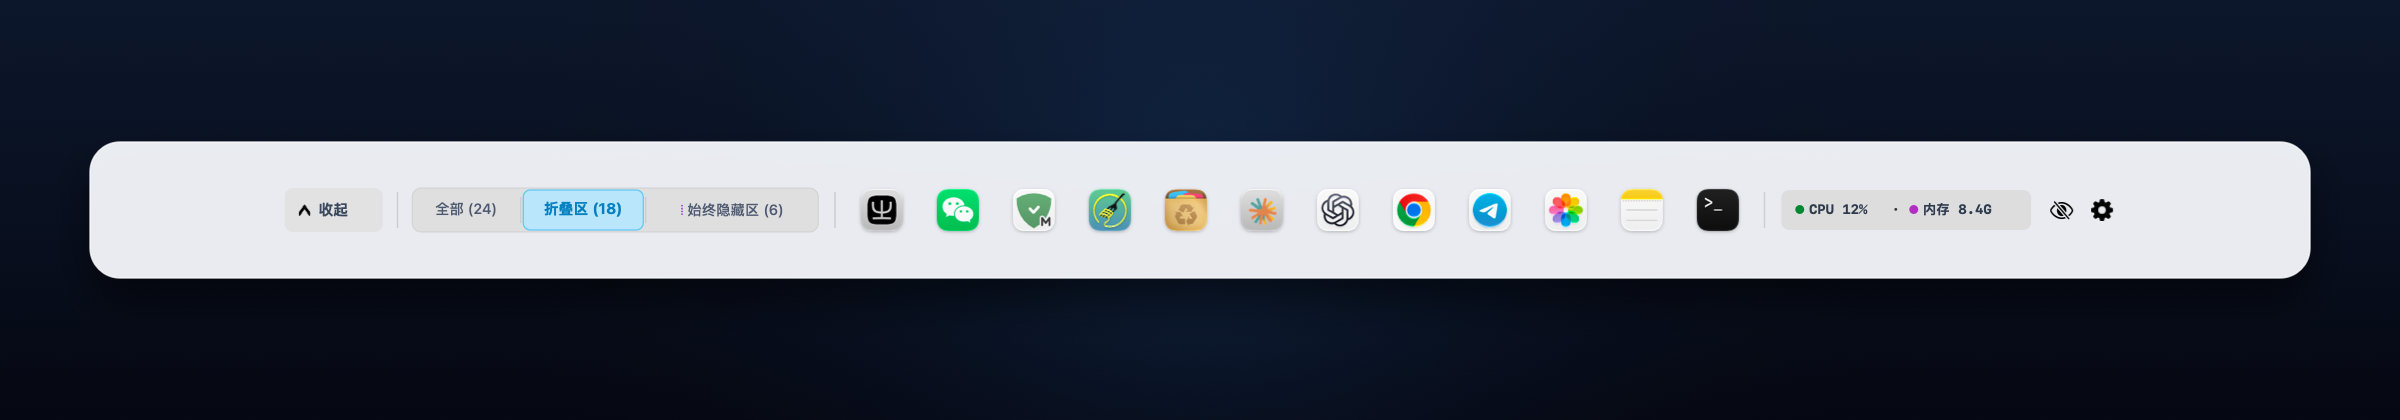
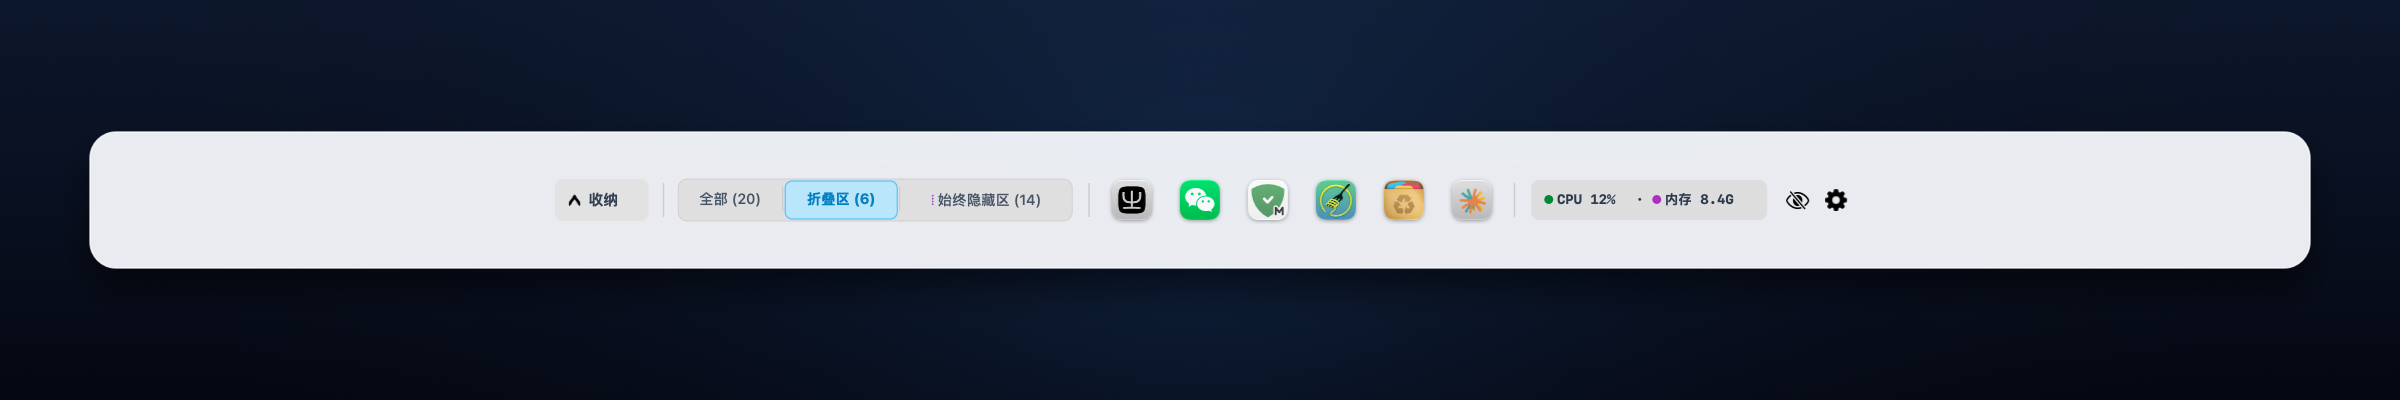
fix(barnest): move text explanations inside drawer comparison frame and sync authentic UI numbers (20/6/14) & button text (^ 收纳)

Changed region(s): [[0.125, 0.45, 0.9062, 0.57], [0.0312, 0.66, 0.9688, 0.69], [0.0312, 0.33, 0.9688, 0.36]]

diff --git a/barnest/support.html b/barnest/support.html
@@ -72,7 +72,7 @@
             <h3>Hover cursor or press hotkey to unfold</h3>
             <p>BarNest lives directly in your menu bar. Simply hover your cursor over the nest divider arrow (<code>&lt;</code> or <code>&gt;</code>) to smoothly reveal hidden icons with fluid spring physics. Moving the cursor away collapses the drawer automatically. You can also press the global hotkey <kbd>⌥</kbd> <kbd>⌘</kbd> <kbd>B</kbd> at any time.</p>
             <figure class="guide-figure">
-              <img src="images/guide-drawer-3tier.png?v=2" alt="BarNest Hover Drawer Unfolded" loading="lazy">
+              <img src="images/guide-drawer-3tier.png?v=3" alt="BarNest Hover Drawer Unfolded" loading="lazy">
               <figcaption>Floating drawer unfolded: Integrated with All, Folded, and Always-Hidden segmented controller</figcaption>
             </figure>
           </article>
@@ -87,8 +87,8 @@
               <li><strong>Always Hidden (始终隐藏区)</strong>: Opens the isolated shelf for background daemons and low-frequency utilities, also accessible via <kbd>⌥</kbd> <kbd>⇧</kbd> <kbd>⌘</kbd> <kbd>B</kbd>.</li>
             </ul>
             <figure class="guide-figure">
-              <img src="images/guide-shelf-tiers-light.png?v=2" alt="BarNest 3-Tier Shelf Switching Comparison" loading="lazy">
-              <figcaption>Real shelf tier switching: Tap All (24), Folded (18), or Always Hidden (6) to filter items dynamically</figcaption>
+              <img src="images/guide-shelf-tiers-light.png?v=3" alt="BarNest 3-Tier Shelf Switching Comparison" loading="lazy">
+              <figcaption>Real shelf tier switching: Tap All (20), Folded (6), or Always Hidden (14) to filter items dynamically</figcaption>
             </figure>
             <figure class="guide-figure" style="margin-top: 16px;">
               <img src="images/guide-preferences.png" alt="BarNest Preferences Icon Hierarchy" loading="lazy">
@@ -162,7 +162,7 @@
             <h3>鼠标轻触或快捷键即刻展开</h3>
             <p>BarNest 常驻在您的顶部状态栏中。将鼠标移动悬停在折叠箭头（<code>&lt;</code> 或 <code>&gt;</code>）上，隐藏图标立即随物理动效滑出；鼠标移开后自动隐匿。您也可以随时按下全局快捷键 <kbd>⌥</kbd> <kbd>⌘</kbd> <kbd>B</kbd> 极速呼出。</p>
             <figure class="guide-figure">
-              <img src="images/guide-drawer-3tier-zh.png?v=2" alt="BarNest 悬停展开抽屉托盘示意图" loading="lazy">
+              <img src="images/guide-drawer-3tier-zh.png?v=3" alt="BarNest 悬停展开抽屉托盘示意图" loading="lazy">
               <figcaption>原生悬浮抽屉展开态：完整集成「全部」、「折叠区」与「始终隐藏区」分段控制器</figcaption>
             </figure>
           </article>
@@ -177,8 +177,8 @@
               <li><strong>「始终隐藏区」</strong>：直达深度隐藏的高级或后台静默工具，支持快捷键 <kbd>⌥</kbd> <kbd>⇧</kbd> <kbd>⌘</kbd> <kbd>B</kbd> 直接唤起。</li>
             </ul>
             <figure class="guide-figure">
-              <img src="images/guide-shelf-tiers-light-zh.png?v=2" alt="BarNest 三阶分段切换实时效果演示" loading="lazy">
-              <figcaption>真实抽屉三段切换对比：点选「全部 (24)」、「折叠区 (18)」或「始终隐藏区 (6)」实时过滤对应应用</figcaption>
+              <img src="images/guide-shelf-tiers-light-zh.png?v=3" alt="BarNest 三阶分段切换实时效果演示" loading="lazy">
+              <figcaption>真实抽屉三段切换对比：点选「全部 (20)」、「折叠区 (6)」或「始终隐藏区 (14)」实时过滤对应应用</figcaption>
             </figure>
             <figure class="guide-figure" style="margin-top: 16px;">
               <img src="images/guide-preferences-zh.png" alt="BarNest 偏好设置分级管理示意图" loading="lazy">
@@ -249,7 +249,7 @@
             <h3>マウスホバーまたはショートカットで即時展開</h3>
             <p>メニューバーの折りたたみ矢印（<code>&lt;</code> または <code>&gt;</code>）にカーソルを合わせるだけで、隠れたアイコンが滑らかに展開します。離れると自動収納。グローバルショートカット <kbd>⌥</kbd> <kbd>⌘</kbd> <kbd>B</kbd> でも瞬時に呼び出せます。</p>
             <figure class="guide-figure">
-              <img src="images/guide-drawer-3tier.png?v=2" alt="BarNest ドロワー展開" loading="lazy">
+              <img src="images/guide-drawer-3tier.png?v=3" alt="BarNest ドロワー展開" loading="lazy">
               <figcaption>展開されたフローティングドロワー：「すべて」「格納」「完全非表示」の3層切り替えに対応</figcaption>
             </figure>
           </article>
@@ -259,7 +259,7 @@
             <h3>「すべて」「折りたたみ」「完全非表示」を瞬時に切り替え</h3>
             <p>ドロワー内でセグメントを切り替えて目的のアプリに素早くアクセス。環境設定で自由に各アプリの階層をカスタマイズできます。</p>
             <figure class="guide-figure">
-              <img src="images/guide-shelf-tiers-light.png?v=2" alt="BarNest 3階層切り替え" loading="lazy">
+              <img src="images/guide-shelf-tiers-light.png?v=3" alt="BarNest 3階層切り替え" loading="lazy">
               <figcaption>ドロワー内の3階層切り替え比較</figcaption>
             </figure>
           </article>
@@ -299,7 +299,7 @@
             <h3>마우스 호버 또는 단축키로 즉각 펼침</h3>
             <p>메뉴 막대의 접기 아이콘(<code>&lt;</code> 또는 <code>&gt;</code>)에 마우스를 올리면 숨겨진 아이콘 서랍이 부드럽게 나타납니다. 언제든 글로벌 단축키 <kbd>⌥</kbd> <kbd>⌘</kbd> <kbd>B</kbd>로 빠르게 열고 닫을 수 있습니다.</p>
             <figure class="guide-figure">
-              <img src="images/guide-drawer-3tier.png?v=2" alt="BarNest 서랍 펼침" loading="lazy">
+              <img src="images/guide-drawer-3tier.png?v=3" alt="BarNest 서랍 펼침" loading="lazy">
               <figcaption>플로팅 서랍 펼침: 전체(All), 접힘(Folded), 완전 숨김(Always Hidden) 3단계 탭 탑재</figcaption>
             </figure>
           </article>
@@ -309,7 +309,7 @@
             <h3>전체, 접기, 완전 숨김 영역 즉시 전환</h3>
             <p>서랍 내에서 탭을 눌러 원하는 영역의 아이콘을 자유롭게 필터링하여 확인하세요.</p>
             <figure class="guide-figure">
-              <img src="images/guide-shelf-tiers-light.png?v=2" alt="BarNest 3단계 전환 비교" loading="lazy">
+              <img src="images/guide-shelf-tiers-light.png?v=3" alt="BarNest 3단계 전환 비교" loading="lazy">
               <figcaption>서랍 내 3단계 계층 실시간 전환 비교</figcaption>
             </figure>
           </article>
@@ -349,7 +349,7 @@
             <h3>Hover oder Tastenkürzel für sofortiges Ausklappen</h3>
             <p>Fahren Sie mit der Maus über das Pfeilsymbol (<code>&lt;</code> oder <code>&gt;</code>) in der Menüleiste oder drücken Sie <kbd>⌥</kbd> <kbd>⌘</kbd> <kbd>B</kbd>, um versteckte Symbole sanft auszuklappen.</p>
             <figure class="guide-figure">
-              <img src="images/guide-drawer-3tier.png?v=2" alt="BarNest Drawer" loading="lazy">
+              <img src="images/guide-drawer-3tier.png?v=3" alt="BarNest Drawer" loading="lazy">
               <figcaption>Schwebender Drawer mit 3-Stufen-Tabs: Alle, Ausgeblendet &amp; Dauerhaft versteckt</figcaption>
             </figure>
           </article>
@@ -358,7 +358,7 @@
             <h3>Einfaches Umschalten direkt im Drawer</h3>
             <p>Wechseln Sie blitzschnell zwischen den verschiedenen Ebenen.</p>
             <figure class="guide-figure">
-              <img src="images/guide-shelf-tiers-light.png?v=2" alt="3-Stufen-Vergleich" loading="lazy">
+              <img src="images/guide-shelf-tiers-light.png?v=3" alt="3-Stufen-Vergleich" loading="lazy">
               <figcaption>Direkte Umschaltung der 3 Stufen im Drawer</figcaption>
             </figure>
           </article>
@@ -398,7 +398,7 @@
             <h3>Survol ou raccourci clavier instantané</h3>
             <p>Survolez la flèche (<code>&lt;</code> ou <code>&gt;</code>) ou appuyez sur <kbd>⌥</kbd> <kbd>⌘</kbd> <kbd>B</kbd> pour afficher instantanément vos icônes masquées.</p>
             <figure class="guide-figure">
-              <img src="images/guide-drawer-3tier.png?v=2" alt="Tiroir BarNest" loading="lazy">
+              <img src="images/guide-drawer-3tier.png?v=3" alt="Tiroir BarNest" loading="lazy">
               <figcaption>Tiroir flottant : bascule immédiate entre Tous, Replié et Toujours masqué</figcaption>
             </figure>
           </article>
@@ -407,7 +407,7 @@
             <h3>Filtrage direct dans le tiroir</h3>
             <p>Passez d'un niveau à l'autre en un seul clic.</p>
             <figure class="guide-figure">
-              <img src="images/guide-shelf-tiers-light.png?v=2" alt="Comparaison 3 niveaux" loading="lazy">
+              <img src="images/guide-shelf-tiers-light.png?v=3" alt="Comparaison 3 niveaux" loading="lazy">
               <figcaption>Comparaison en temps réel des 3 niveaux de classement</figcaption>
             </figure>
           </article>
@@ -447,7 +447,7 @@
             <h3>Pasa el cursor o usa el atajo global</h3>
             <p>Pasa el puntero sobre la flecha (<code>&lt;</code> o <code>&gt;</code>) o pulsa <kbd>⌥</kbd> <kbd>⌘</kbd> <kbd>B</kbd> para ver los iconos ocultos al instante.</p>
             <figure class="guide-figure">
-              <img src="images/guide-drawer-3tier.png?v=2" alt="Cajón flotante BarNest" loading="lazy">
+              <img src="images/guide-drawer-3tier.png?v=3" alt="Cajón flotante BarNest" loading="lazy">
               <figcaption>Cajón con selector de 3 niveles: Todos, Plegados y Siempre ocultos</figcaption>
             </figure>
           </article>
@@ -456,7 +456,7 @@
             <h3>Cambia de nivel con un solo toque</h3>
             <p>Filtra instantáneamente los iconos directamente dentro del cajón.</p>
             <figure class="guide-figure">
-              <img src="images/guide-shelf-tiers-light.png?v=2" alt="Comparativa de 3 niveles" loading="lazy">
+              <img src="images/guide-shelf-tiers-light.png?v=3" alt="Comparativa de 3 niveles" loading="lazy">
               <figcaption>Comparativa real de los 3 niveles dentro del cajón</figcaption>
             </figure>
           </article>
@@ -496,7 +496,7 @@
             <h3>Passe o cursor ou use o atalho</h3>
             <p>Passe o mouse sobre a seta (<code>&lt;</code> ou <code>&gt;</code>) ou use <kbd>⌥</kbd> <kbd>⌘</kbd> <kbd>B</kbd> para abrir instantaneamente a gaveta de ícones.</p>
             <figure class="guide-figure">
-              <img src="images/guide-drawer-3tier.png?v=2" alt="Gaveta BarNest" loading="lazy">
+              <img src="images/guide-drawer-3tier.png?v=3" alt="Gaveta BarNest" loading="lazy">
               <figcaption>Gaveta flutuante com seletor de 3 níveis: Todos, Recolhidos e Sempre ocultos</figcaption>
             </figure>
           </article>
@@ -505,7 +505,7 @@
             <h3>Alterne entre áreas com um clique</h3>
             <p>Filtre os ícones na gaveta sem complicações.</p>
             <figure class="guide-figure">
-              <img src="images/guide-shelf-tiers-light.png?v=2" alt="Comparação de 3 níveis" loading="lazy">
+              <img src="images/guide-shelf-tiers-light.png?v=3" alt="Comparação de 3 níveis" loading="lazy">
               <figcaption>Comparação visual dos 3 níveis na gaveta</figcaption>
             </figure>
           </article>
